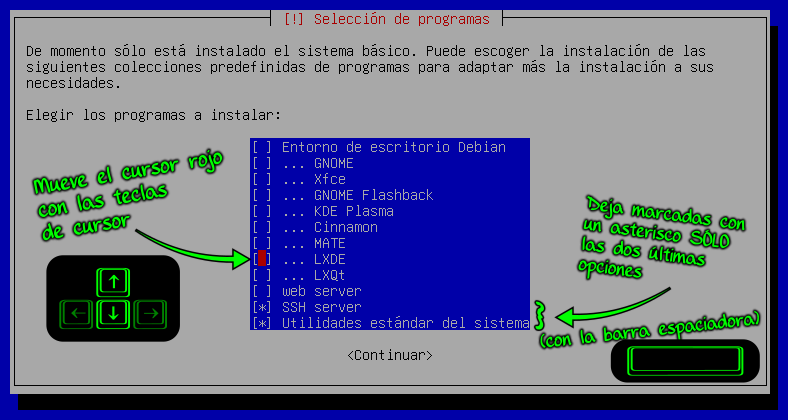
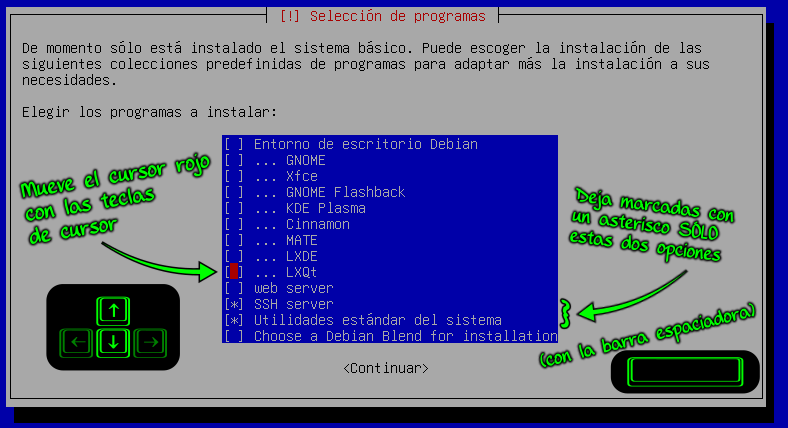
Actualización automática 2026-09-19_12:41

Changed region(s): [[0.0, 0.0, 1.0, 0.9905], [0.4264, 0.8357, 0.5482, 0.8667]]

diff --git a/docs/Tutorial de instalación Servidor Debian.md b/docs/Tutorial de instalación Servidor Debian.md
@@ -11,7 +11,7 @@ Vamos a instalar la distro Debian (una de las distribuciones más comunes de GNU
 
 | En casa | En clase |
 | ------ | ------ |
-| Acudimos a la [página de descargas de Debian](https://www.debian.org/distrib/netinst), y nos descargamos la «imagen pequeña», versión [amd64](https://es.wikipedia.org/wiki/X86-64). En el momento de elaborar estos apuntes, era la versión 12.9.0 (archivo imagen debian-12.9.0-amd64-netinst.iso). | Abre tu navegador y abre la dirección siguiente: [http://172.30.12.180/?dir=ISOs/Linux](http://172.30.12.180/?dir=ISOs/Linux). <br/>Descarga a tu ordenador la última versión de Debian disponible, en formato DVD (en la última actualización de estos apuntes, [debian-13.3.0-amd64-DVD-1.iso](http://172.30.12.180/ISOs/Linux/debian-13.3.0-amd64-DVD-1.iso)).
+| Acudimos a la [página de descargas de Debian](https://www.debian.org/distrib/netinst), y nos descargamos la «imagen pequeña», versión [amd64](https://es.wikipedia.org/wiki/X86-64). En la última edición de estos apuntes, era la versión 13.7.0 (archivo imagen debian-13.7.0-amd64-netinst.iso). | Abre tu navegador y abre la dirección siguiente: [http://172.30.12.180/?dir=ISOs/Linux](http://172.30.12.180/?dir=ISOs/Linux). <br/>Descarga a tu ordenador la última versión de Debian disponible, en formato DVD (en la última actualización de estos apuntes, [debian-13.3.0-amd64-DVD-1.iso](http://172.30.12.180/ISOs/Linux/debian-13.3.0-amd64-DVD-1.iso)).
 
 &nbsp;
 
